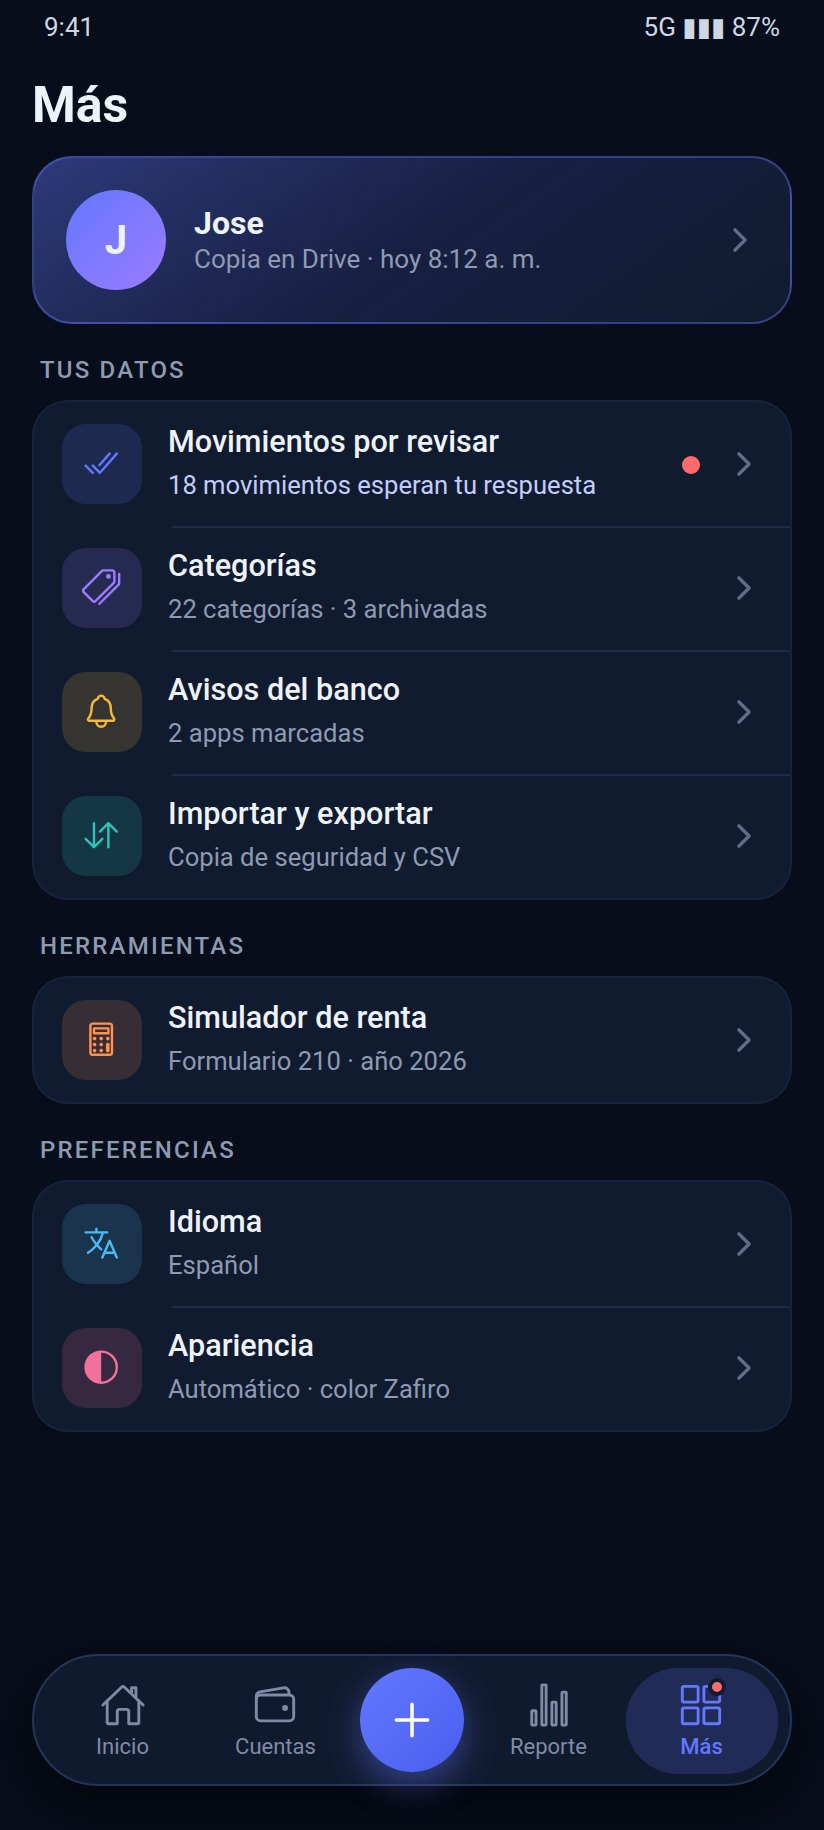
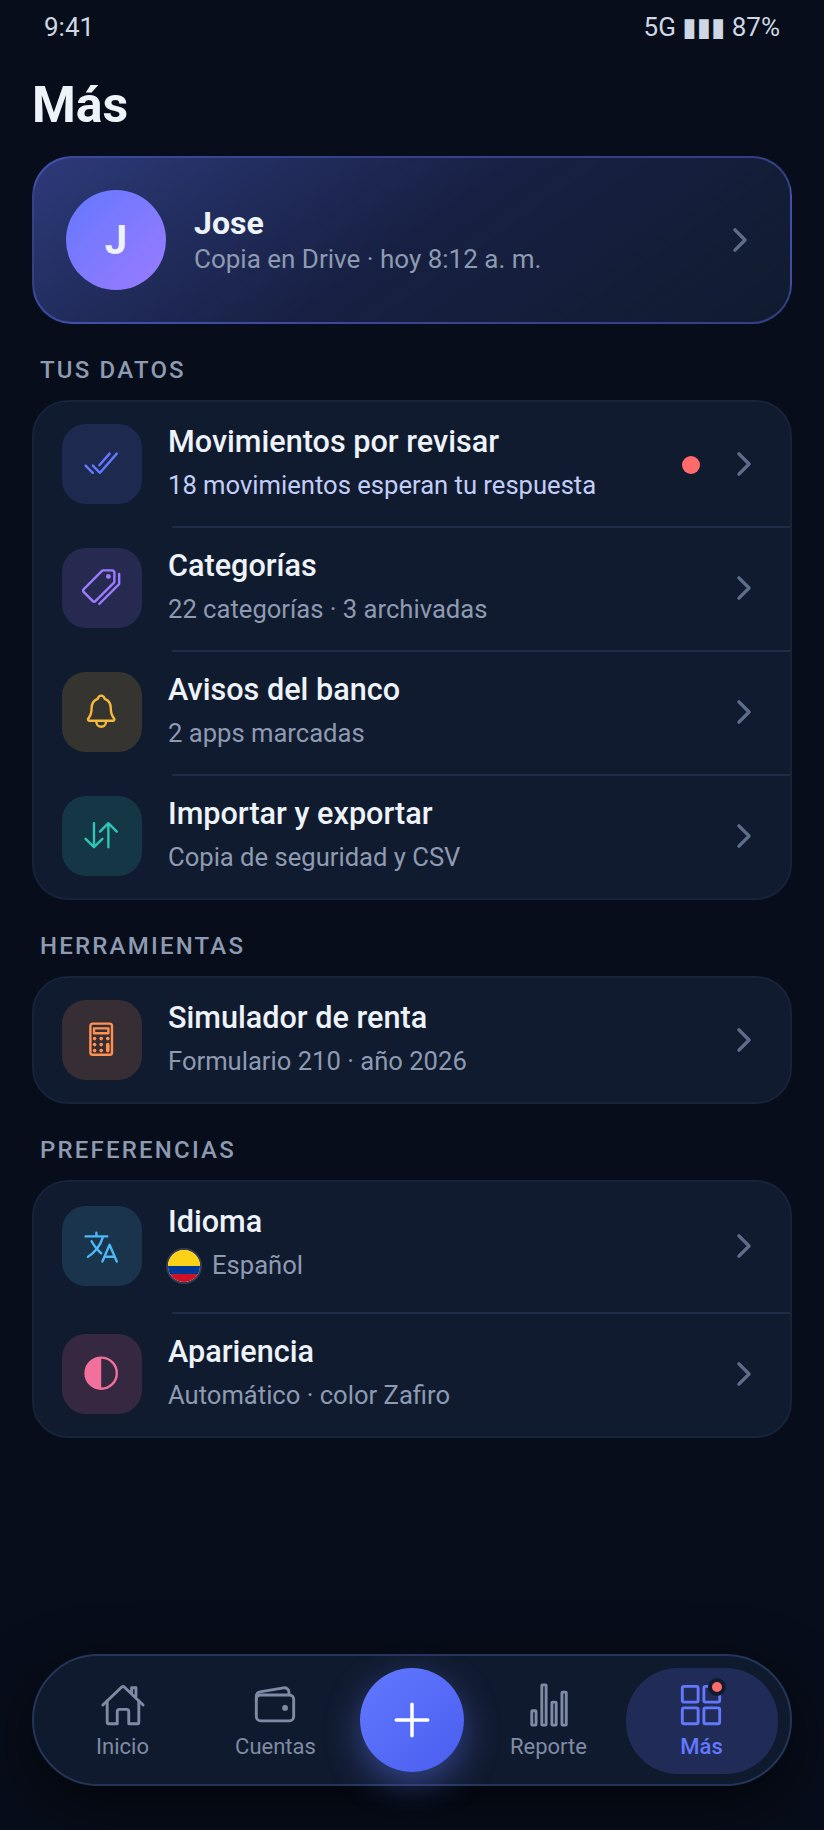
Group 8: a flag beside each language
Claude-Session: https://claude.ai/code/session_01QyUqFix1SMdsKVBtd1Wz88

diff --git a/CLAUDE.md b/CLAUDE.md
@@ -2493,7 +2493,9 @@ Jose to accept or refuse:
 - **A red dot on the Más tab and on Por revisar** says something is
   waiting, where the drawer's count used to.
 - **Language and appearance are sheets** from their rows, each option with
-  a tick. **Appearance adds the colour of the app** (v5, after Jose asked
+  a tick. **Each language carries its flag** (Jose, 2026-09-28), in a
+  circle like any icon and small beside the value on Más: Colombia for
+  Español, the United States for English. **Appearance adds the colour of the app** (v5, after Jose asked
   whether it had one - verified: today it is only Automático / Claro /
   Oscuro, `theme.*` in translations.ts): six accents drawn as the button
   itself (Zafiro, the default, Océano, Turquesa, Esmeralda, Violeta,
